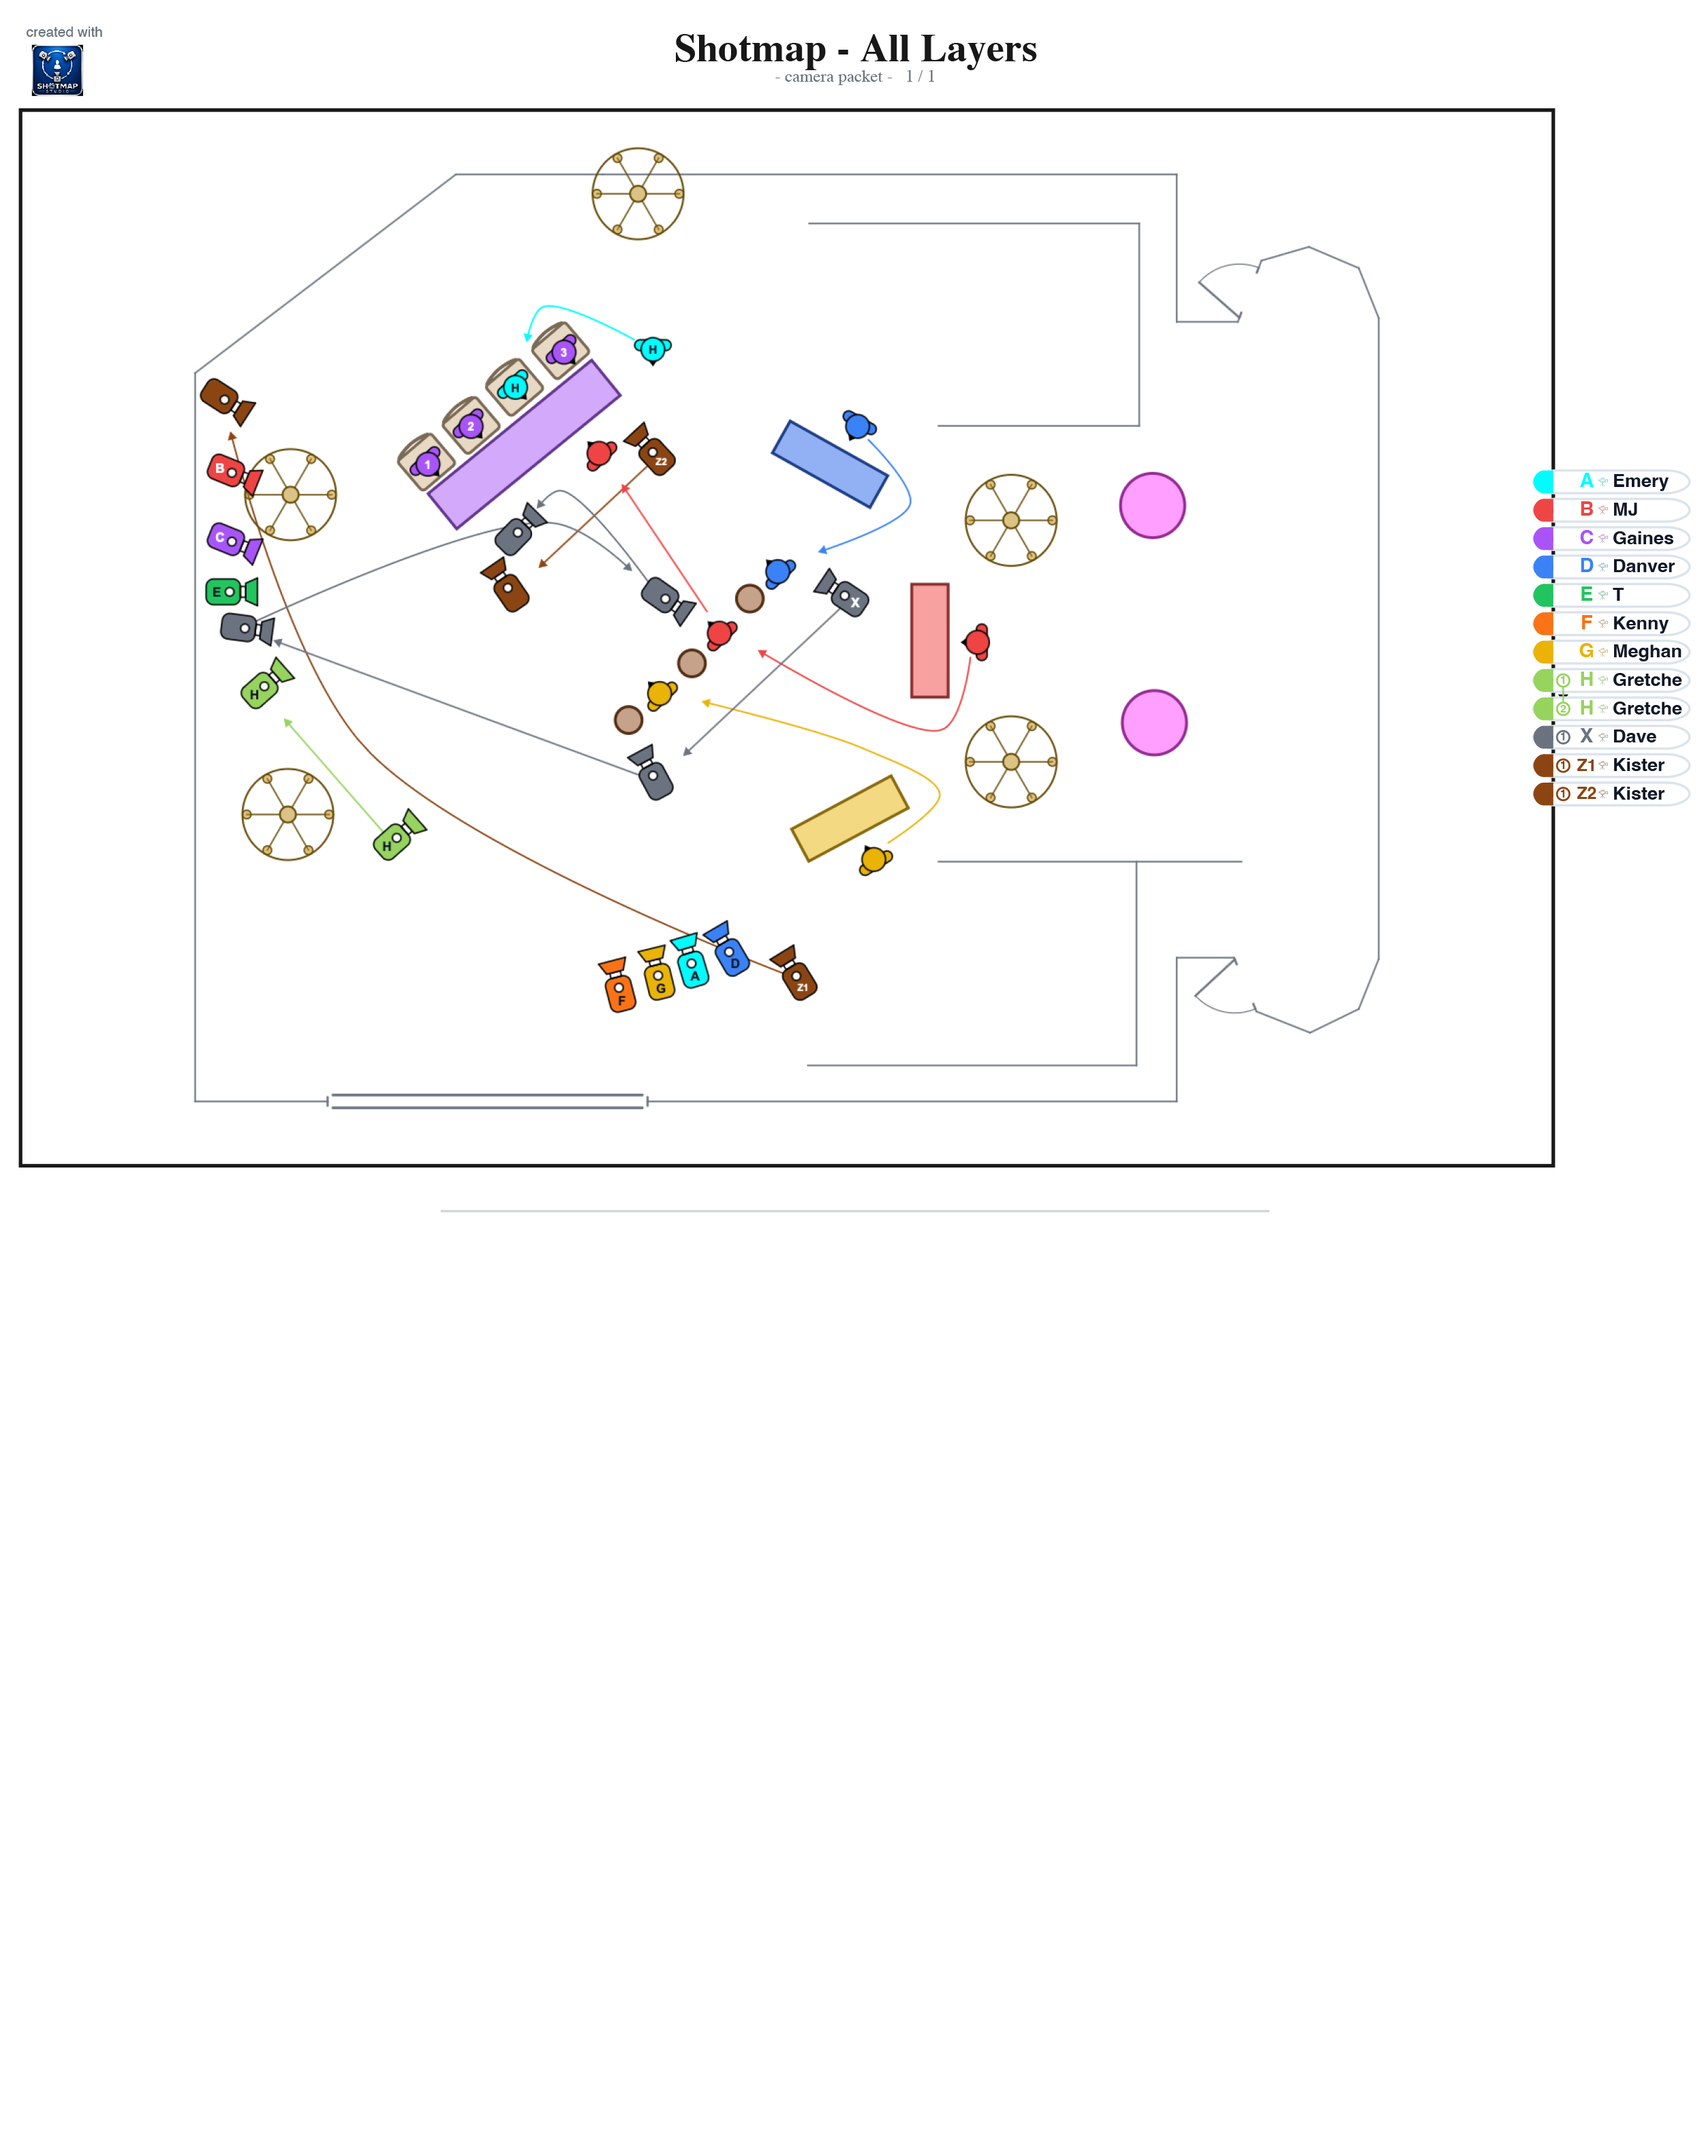
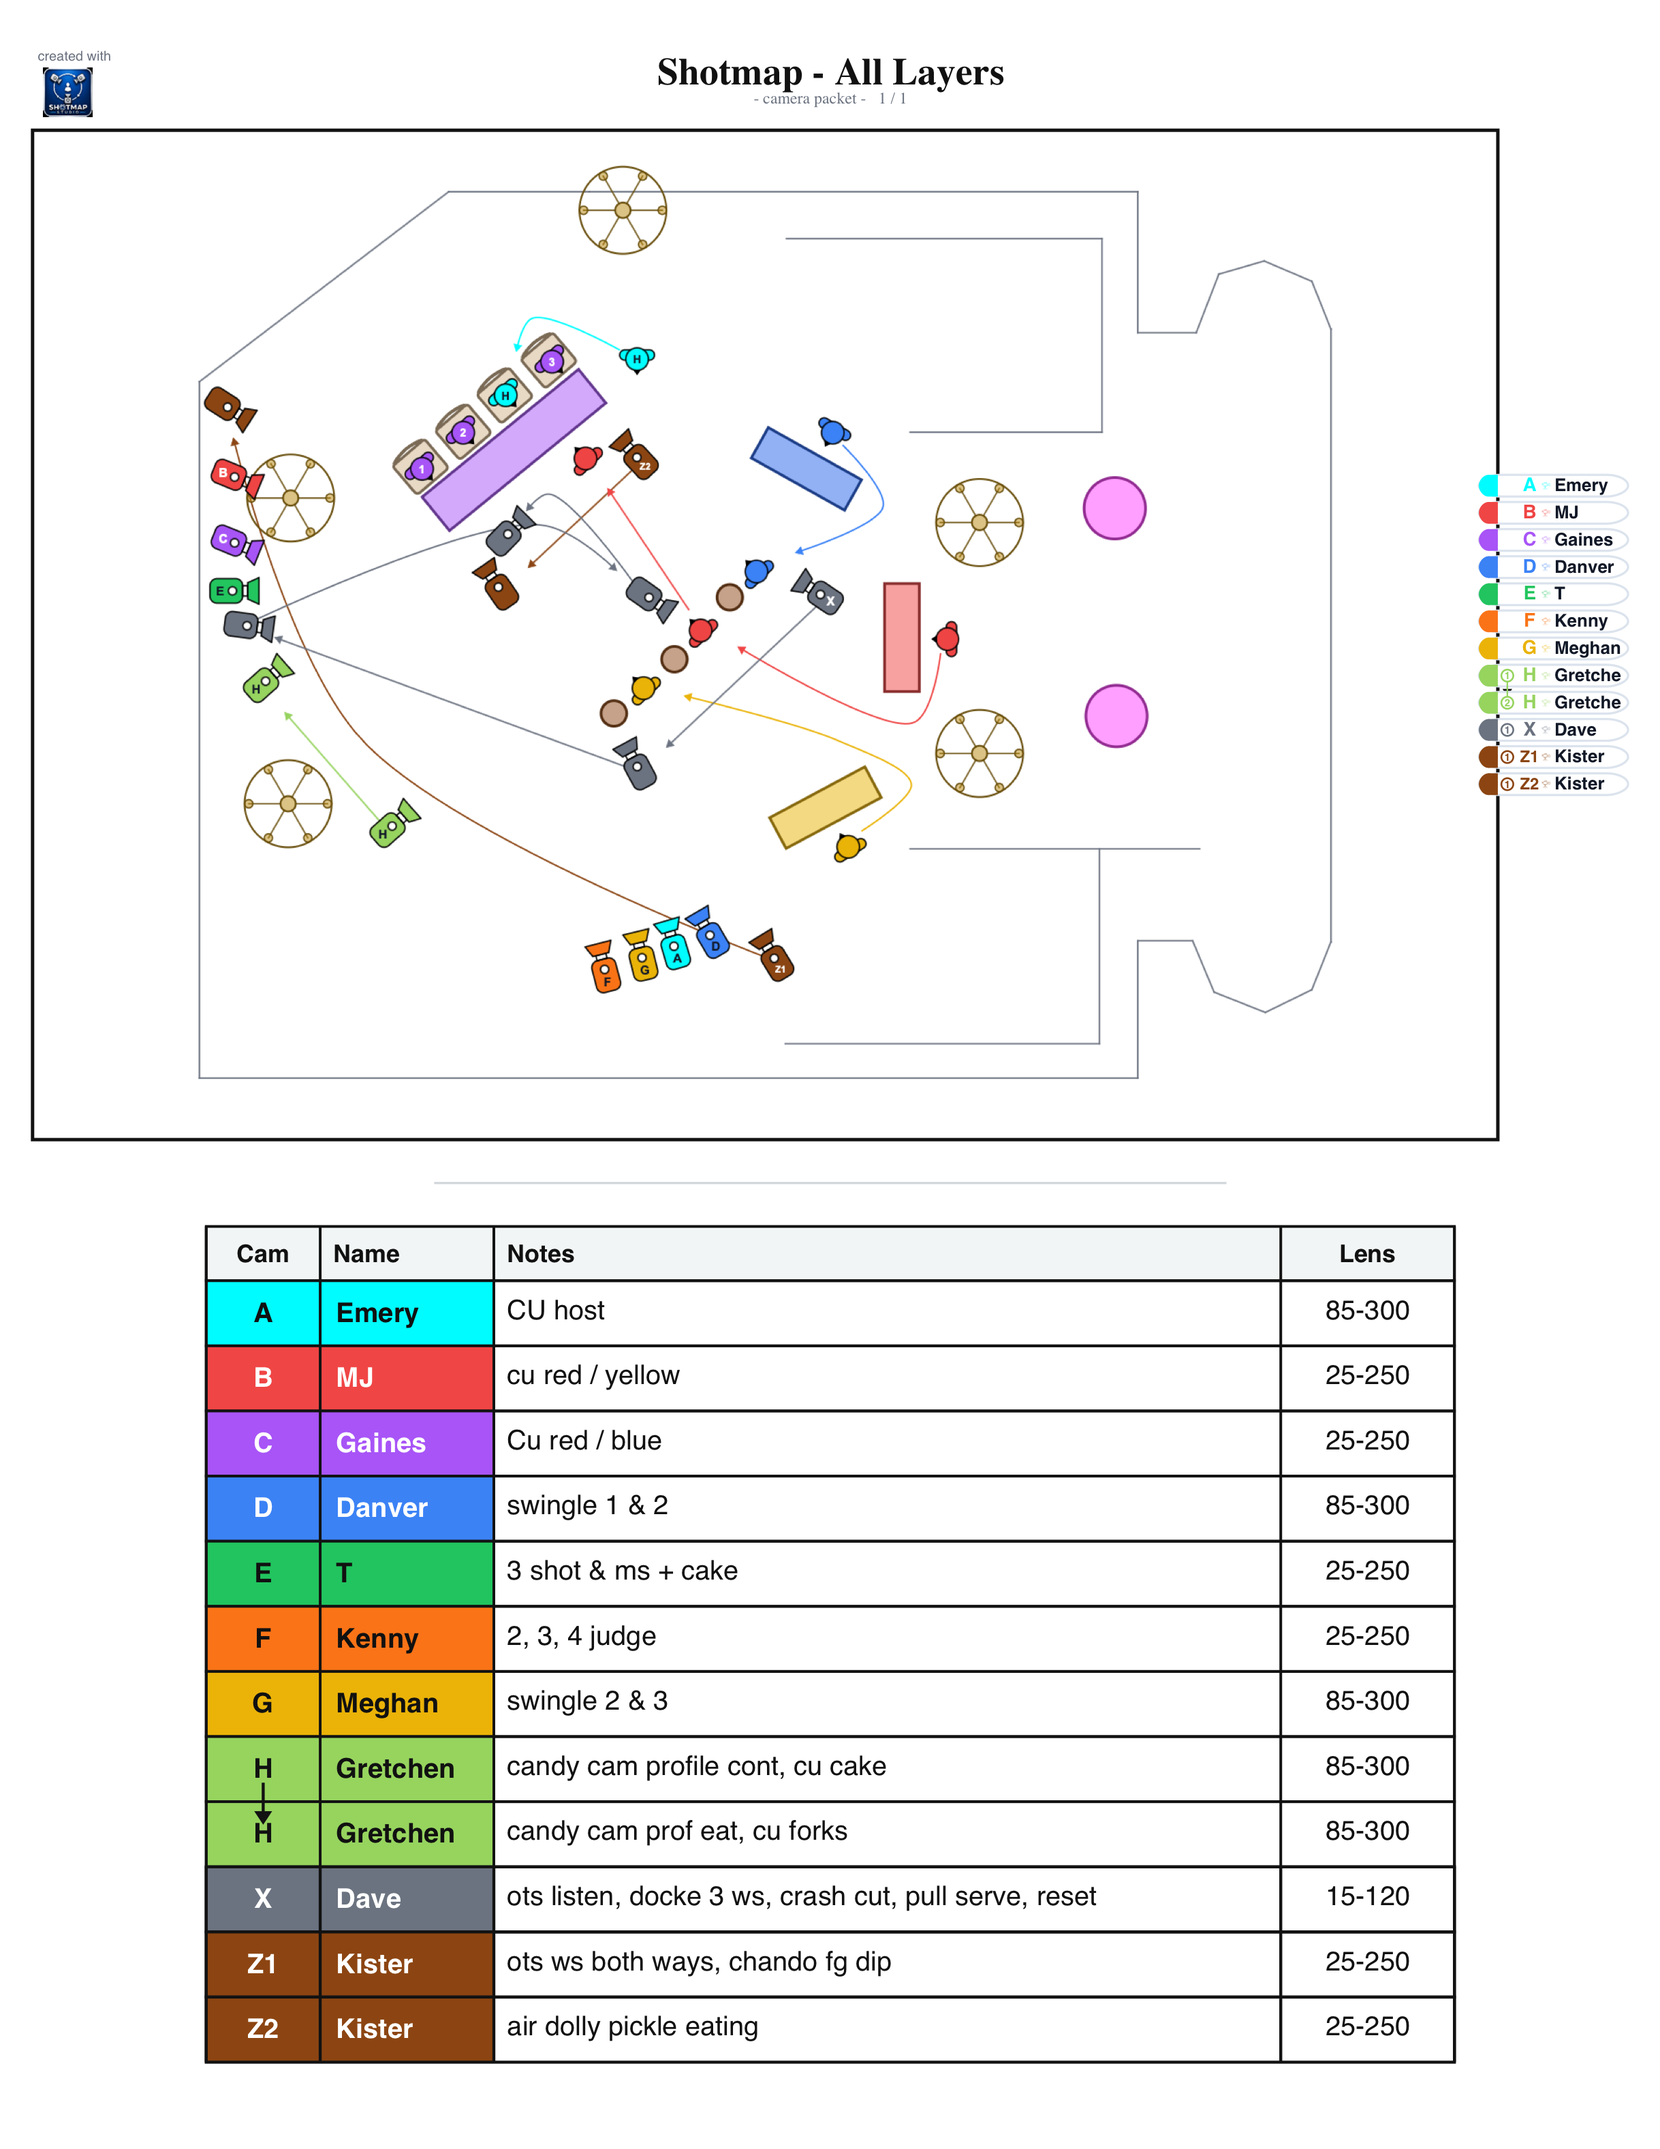
Update Shotmap export handoff timing

diff --git a/components/HorizontalProcess.tsx b/components/HorizontalProcess.tsx
@@ -159,9 +159,9 @@ export function HorizontalProcess() {
   const visualY = useTransform(timelineProgress, [0, 1.5, 1.62], [0, 0, -84]);
   const handoffTextOpacity = useTransform(timelineProgress, [1.24, 1.28, 1.62], [0, 1, 1]);
   const handoffTextX = useTransform(timelineProgress, [1.24, 1.36, 1.48], ["48vw", "0vw", "0vw"]);
-  const handoffTextY = useTransform(timelineProgress, [1.34, 1.52], ["0vh", "-78vh"]);
-  const outputTextOpacity = useTransform(timelineProgress, [1.38, 1.42, 1.62], [0, 1, 1]);
-  const outputTextY = useTransform(timelineProgress, [1.38, 1.52, 1.62], ["52vh", "0vh", "-12vh"]);
+  const handoffTextY = useTransform(timelineProgress, [1.24, 1.36, 1.52], ["26vh", "26vh", "-78vh"]);
+  const outputTextOpacity = useTransform(timelineProgress, [1.46, 1.461, 1.62], [0, 1, 1]);
+  const outputTextY = useTransform(timelineProgress, [1.42, 1.56, 1.62], ["76vh", "0vh", "-12vh"]);
   const captionMotion = [
     {
       opacity: useTransform(timelineProgress, [0.12, 0.15, 0.54, 0.57], [0, 1, 1, 0]),
@@ -298,9 +298,9 @@ export function HorizontalProcess() {
   const packetBottomOpacity = useTransform(timelineProgress, [1.25, 1.27], [0, 1]);
   const packetScale = useTransform(timelineProgress, [1.165, 1.19], [1, 1]);
   const workingMockOpacity = useTransform(timelineProgress, [1.166, 1.18], [1, 0]);
-  const workingMockScaleX = useTransform(timelineProgress, [1.115, 1.165], [1, 0.455]);
-  const workingMockScaleY = useTransform(timelineProgress, [1.115, 1.165], [1, 0.455]);
-  const workingMockX = useTransform(timelineProgress, [1.115, 1.165], [0, -22]);
+  const workingMockScaleX = useTransform(timelineProgress, [1.115, 1.165], [1, 0.437]);
+  const workingMockScaleY = useTransform(timelineProgress, [1.115, 1.165], [1, 0.437]);
+  const workingMockX = useTransform(timelineProgress, [1.115, 1.165], [0, -21]);
   const workingMockY = useTransform(timelineProgress, [1.115, 1.165], [0, -146]);
 
   return (
@@ -706,7 +706,7 @@ function ProgressiveShotmapVisual({
         style={{ opacity: packetShellOpacity, scale: packetScale }}
         className="pointer-events-none absolute inset-0 z-30 flex items-center justify-center overflow-visible"
       >
-        <div className="relative h-full aspect-[2501/3155]">
+        <div className="relative h-full aspect-[2437/3155]">
           <div className="absolute -inset-x-5 -inset-y-7 rounded-[50%] bg-blue-400/7 blur-[42px]" />
           <div className="relative h-full overflow-hidden bg-white shadow-[0_18px_54px_rgba(56,121,255,0.16)]">
             <motion.div
@@ -742,7 +742,7 @@ function StaticShotmapVisual() {
   return (
     <div className="relative overflow-hidden rounded-2xl border border-white/55 bg-slate-100/95 p-2 shadow-cinematic">
       <div className="absolute -inset-10 rounded-[2.25rem] bg-blue-400/20 blur-3xl" />
-        <div className="relative aspect-[2501/3155] overflow-hidden rounded-xl border border-slate-300/80 bg-slate-50">
+        <div className="relative aspect-[2437/3155] overflow-hidden rounded-xl border border-slate-300/80 bg-slate-50">
           <img
             src="/shotmap-progress/12-export-full.png"
             alt="Final crew-ready export with legend"
